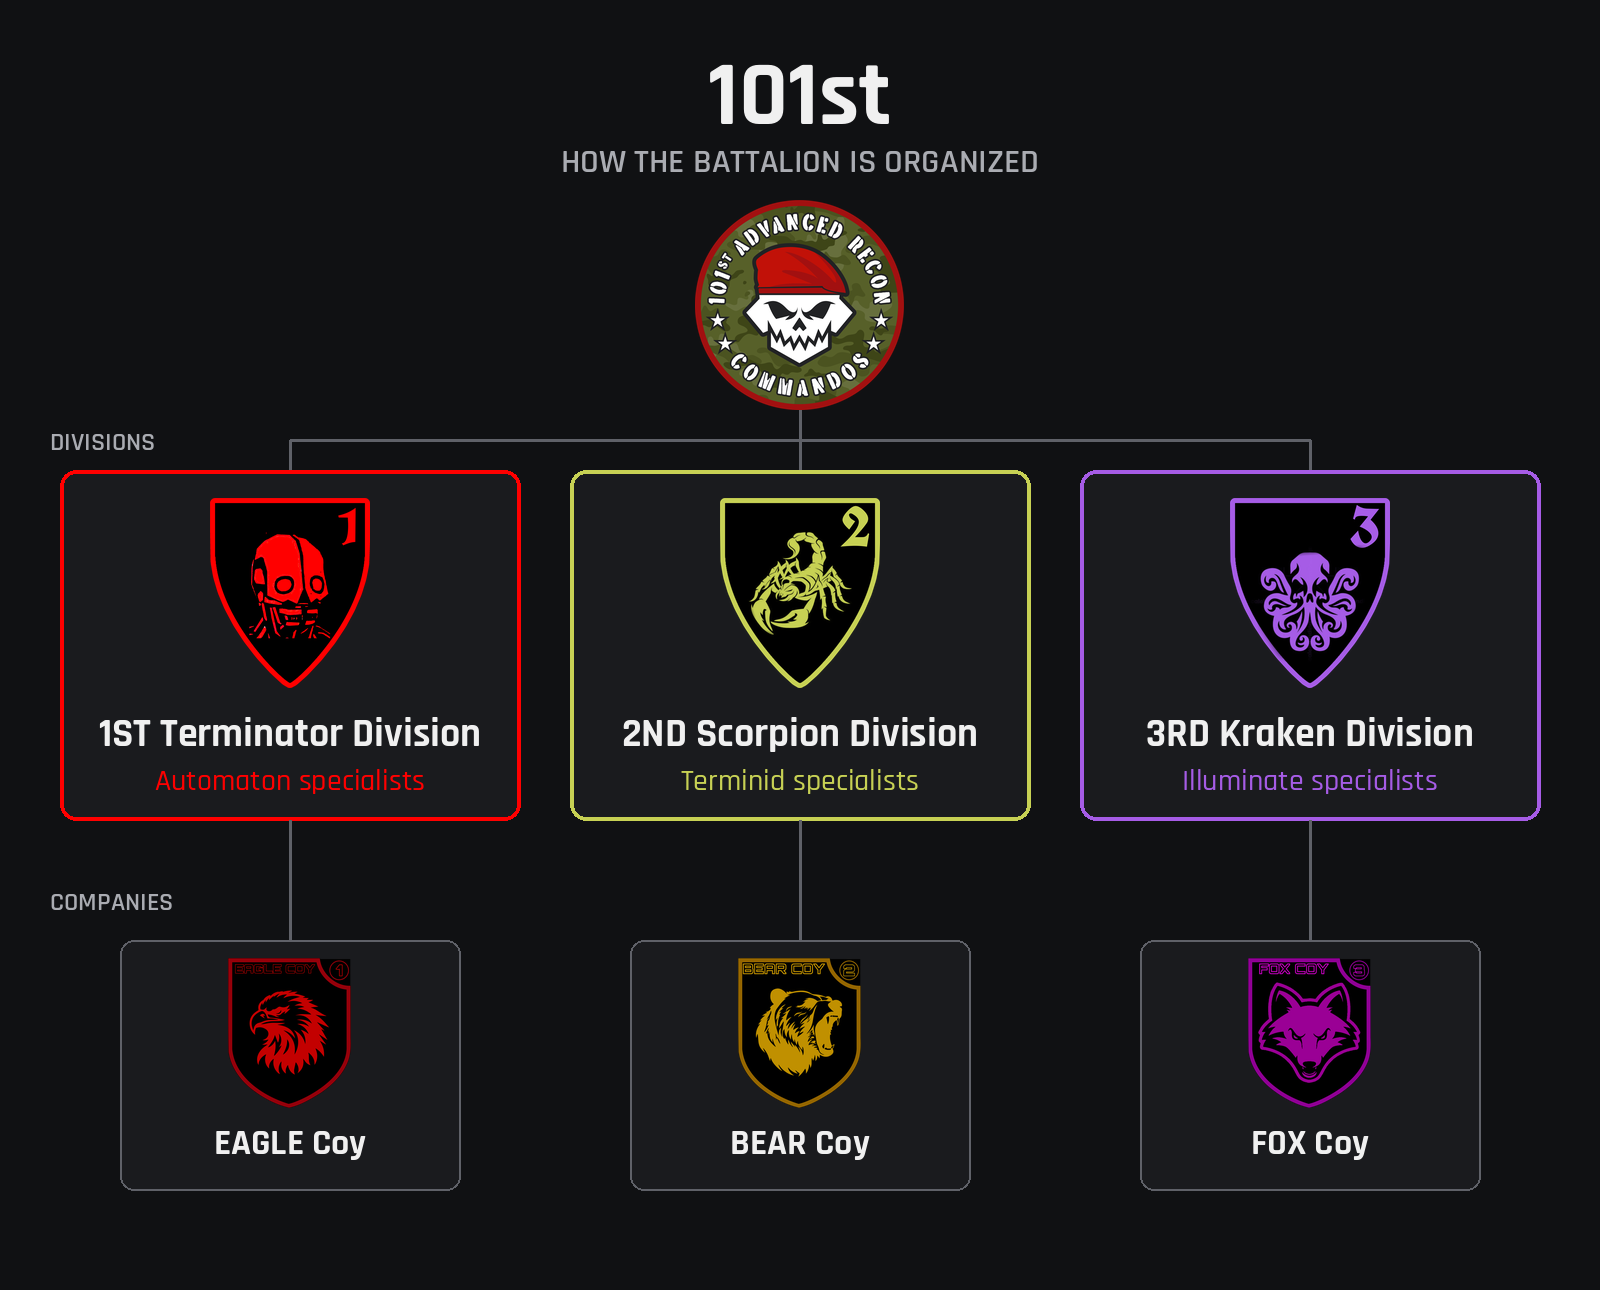
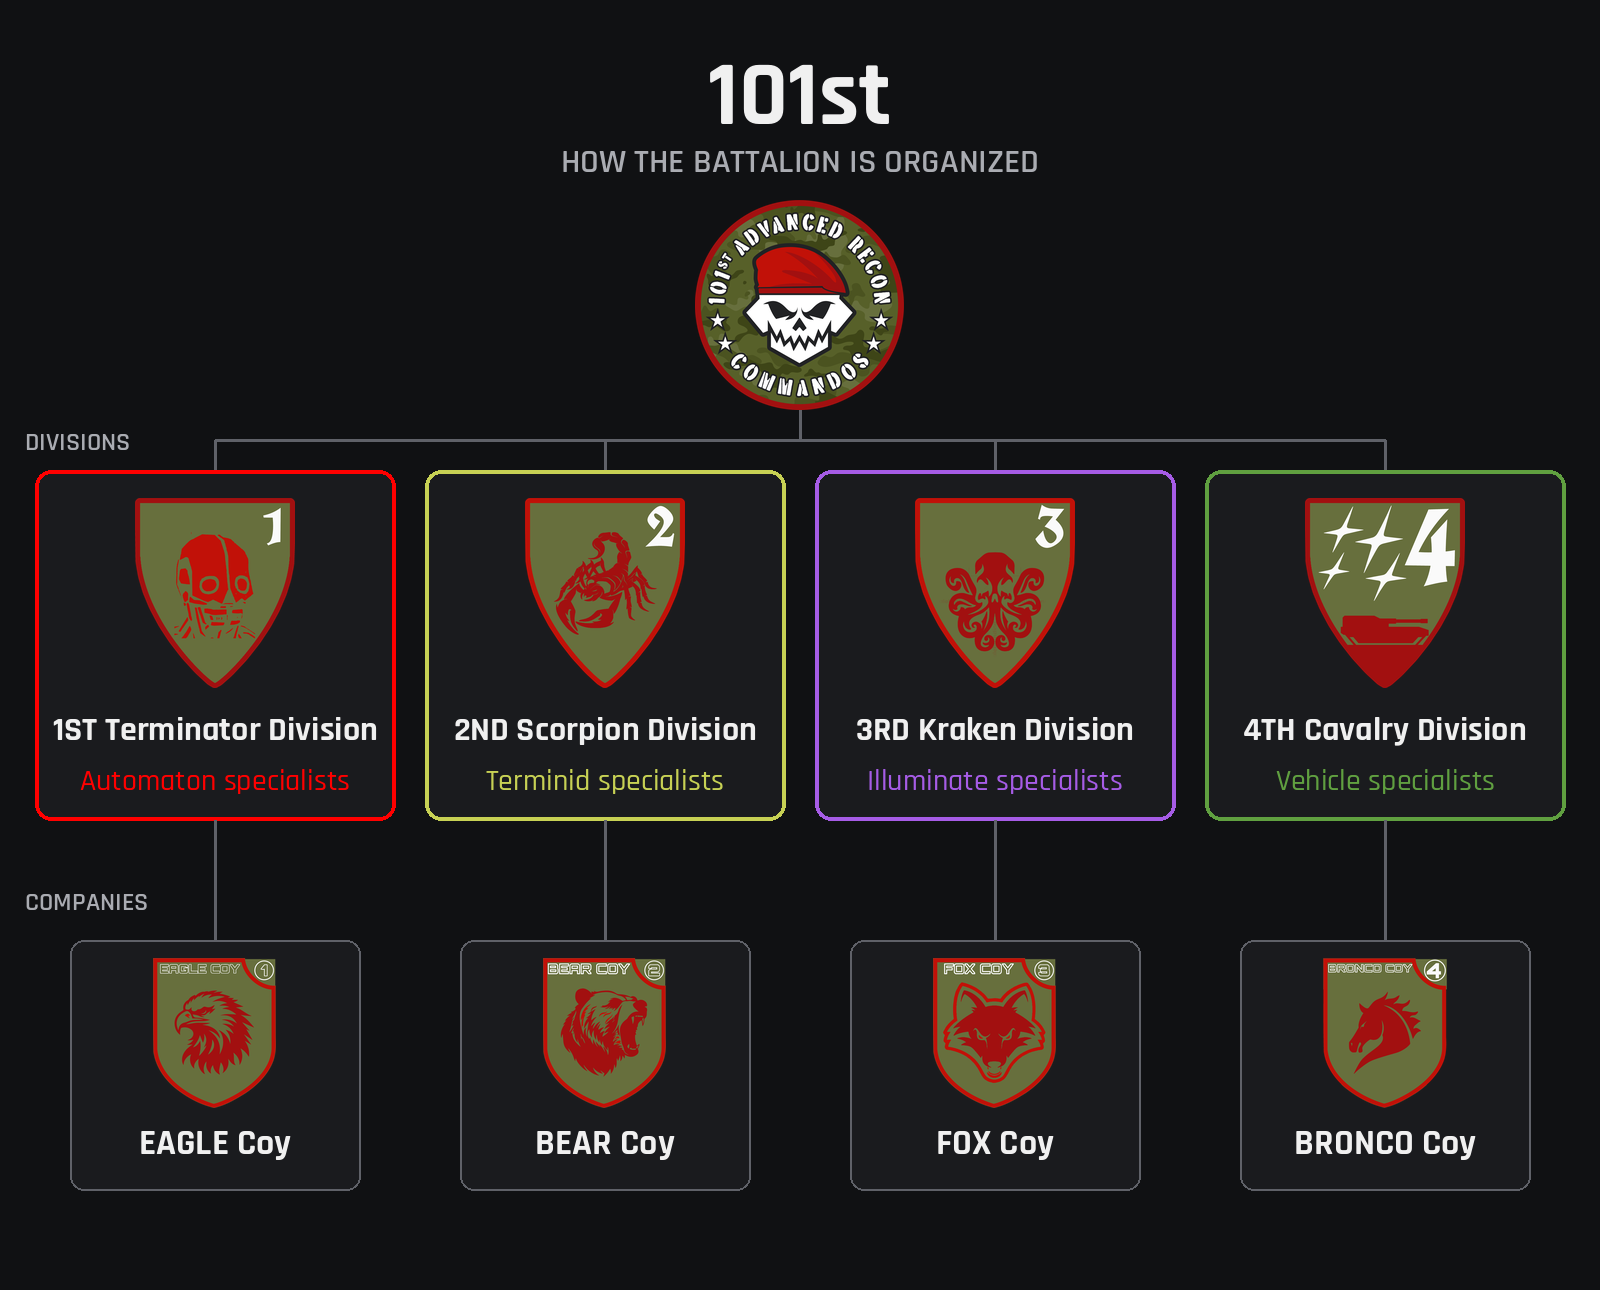
Add 4th Cavalry Division and BRONCO Coy

diff --git a/index.html b/index.html
@@ -95,16 +95,17 @@
         <p class="section-index">Structure</p>
         <h2 id="divisions-title">Divisions</h2>
         <div class="prose divisions-copy">
-          <p><strong>The 101st Advanced Recon Commandos</strong> is a battalion split into three specialist divisions. Each one trains for a single enemy front.</p>
+          <p><strong>The 101st Advanced Recon Commandos</strong> is a battalion split into four specialist divisions. Three each train for a single enemy front, and the 4th Cavalry fights on vehicles.</p>
           <ul class="division-list">
             <li><span class="div-dot div-dot-red" aria-hidden="true"></span><strong>1st Terminator Division</strong> — Automaton specialists. Home of EAGLE Coy.</li>
             <li><span class="div-dot div-dot-scorpion" aria-hidden="true"></span><strong>2nd Scorpion Division</strong> — Terminid specialists. Home of BEAR Coy.</li>
             <li><span class="div-dot div-dot-kraken" aria-hidden="true"></span><strong>3rd Kraken Division</strong> — Illuminate specialists. Home of FOX Coy.</li>
+            <li><span class="div-dot div-dot-cavalry" aria-hidden="true"></span><strong>4th Cavalry Division</strong> — Vehicle specialists. Home of BRONCO Coy.</li>
           </ul>
-          <p>Pick the front you want to fight on.</p>
+          <p>Pick the front you want to fight on, or join the Cavalry on vehicles.</p>
         </div>
         <figure class="structure-chart">
-          <img src="structure/101st-structure-chart.png" alt="101st battalion structure chart: 1st Terminator with EAGLE Coy, 2nd Scorpion with BEAR Coy, 3rd Kraken with FOX Coy">
+          <img src="structure/101st-structure-chart.png" alt="101st battalion structure chart: 1st Terminator with EAGLE Coy, 2nd Scorpion with BEAR Coy, 3rd Kraken with FOX Coy, 4th Cavalry with BRONCO Coy">
           <figcaption>How the battalion is organized</figcaption>
         </figure>
         <p class="structure-download">
@@ -139,7 +140,7 @@
             <span class="step-num">3</span>
             <div>
               <h3>Pick a class and a division</h3>
-              <p>In #class-and-company-selection, pick a class and a division. The 2nd Scorpion Division is home to BEAR Coy, the 3rd Kraken Division to FOX Coy, and the 1st Terminator Division to EAGLE Coy. Classes are Assault, Medic, Support, Marksman, Tanker, Demolitions, Flame Trooper, Gas Trooper, Stealth, and Engineer.</p>
+              <p>In #class-and-company-selection, pick a class and a division. The 2nd Scorpion Division is home to BEAR Coy, the 3rd Kraken Division to FOX Coy, the 1st Terminator Division to EAGLE Coy, and the 4th Cavalry Division to BRONCO Coy. Classes are Assault, Medic, Support, Marksman, Tanker, Demolitions, Flame Trooper, Gas Trooper, Stealth, and Engineer.</p>
             </div>
           </li>
           <li>

diff --git a/styles.css b/styles.css
@@ -539,6 +539,7 @@ h3 {
 .div-dot-red { background: #FF0000; }
 .div-dot-scorpion { background: #C7D154; }
 .div-dot-kraken { background: #A65CE6; }
+.div-dot-cavalry { background: #60A040; }
 
 .structure-chart {
   margin: 0 auto 0.75rem;
